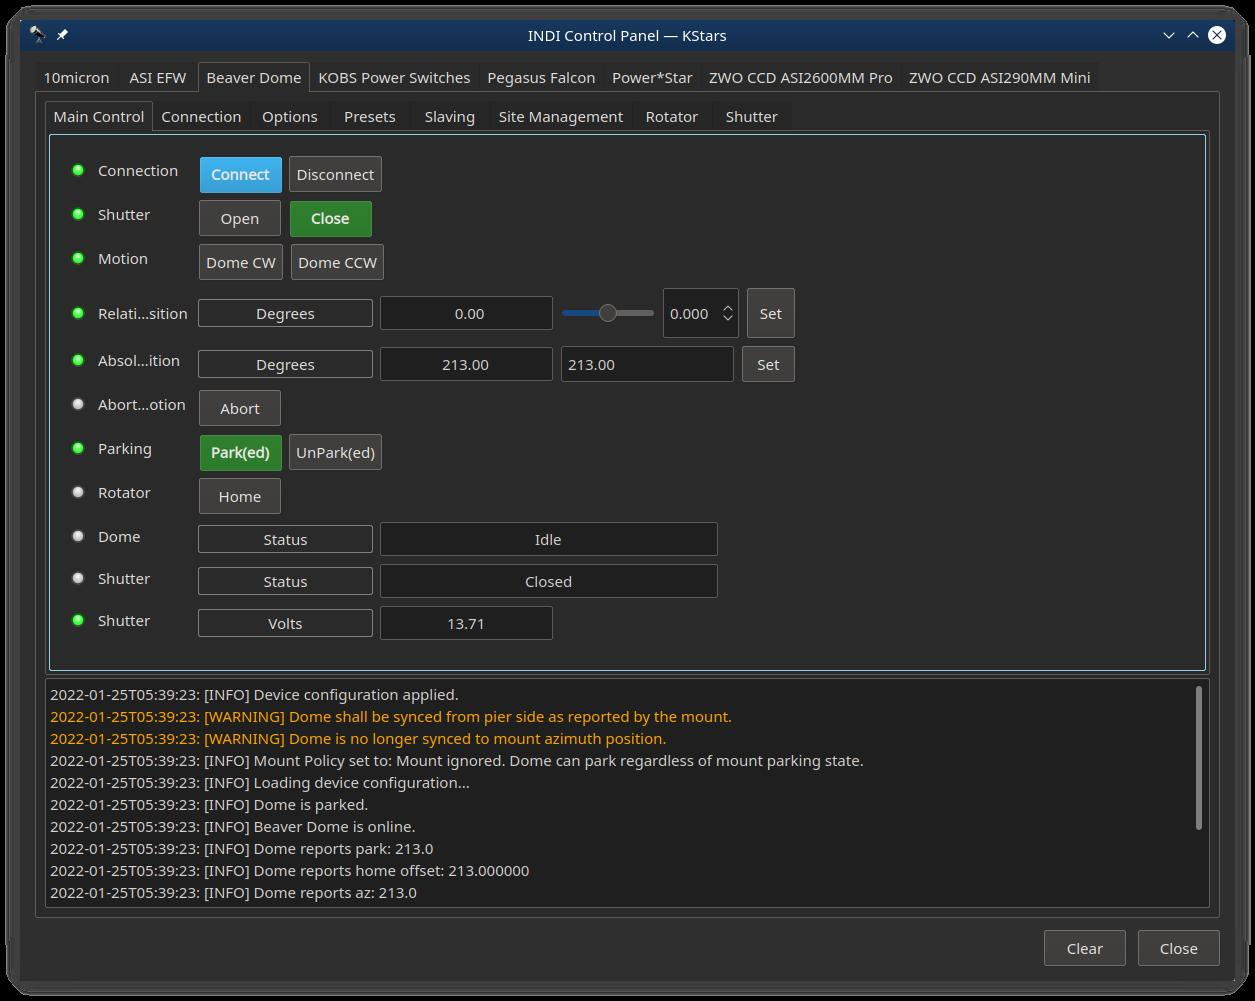
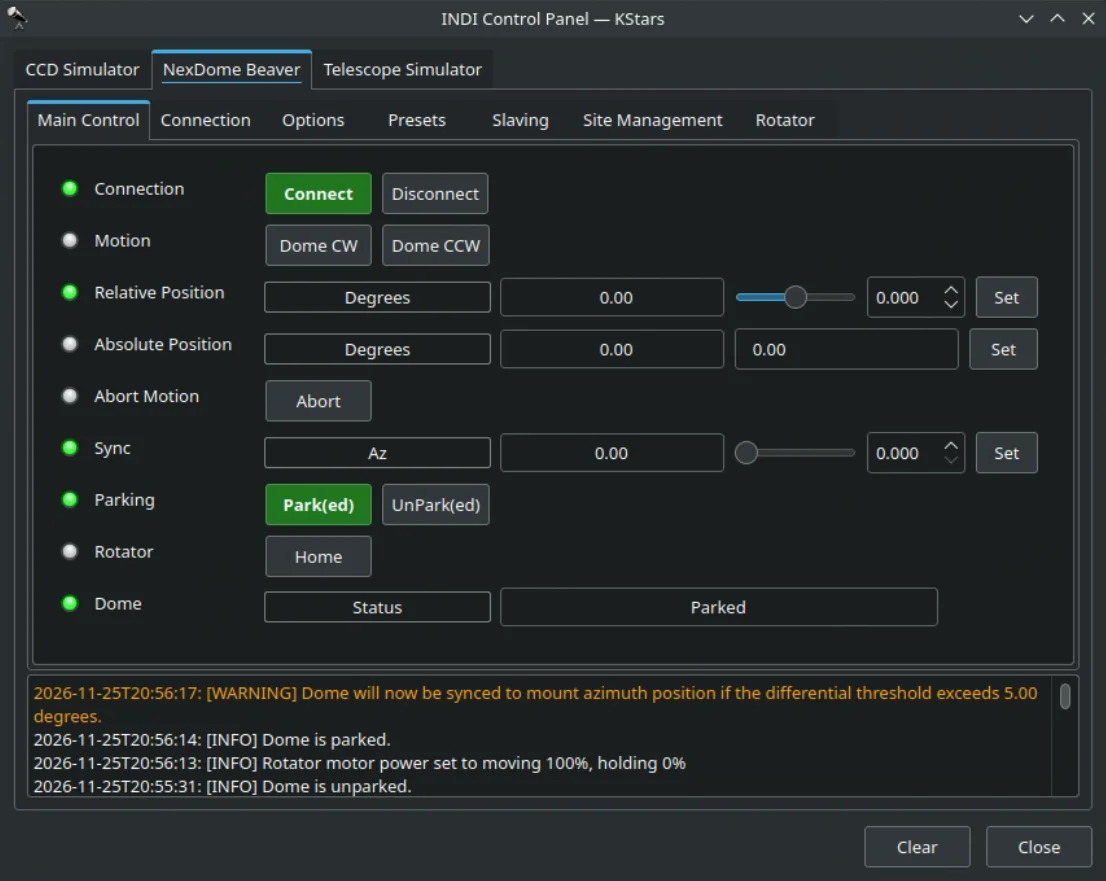
NexDome Beaver: Main tab screenshot with Sync, how to use Sync

diff --git a/src/content/docs/domes/nexdome/nexdome-beaver/nexdome-beaver.md b/src/content/docs/domes/nexdome/nexdome-beaver/nexdome-beaver.md
@@ -105,7 +105,7 @@ Absolute Position will move the dome AZ relative to what you set the Home Offset
 
 Dome and Shutter Status fields will display any errors, idle, moving, etc.
 
-Sync sets the current dome azimuth without moving the dome, for example after the dome was pushed by hand or slipped. It is refused while the rotator is moving.
+Sync tells the controller the dome's actual azimuth without moving the dome, for example after the dome was pushed by hand or slipped. Enter the azimuth in the Sync field and click Set; Absolute Position then shows the new value. Sync is refused while the rotator is moving. Other INDI clients, such as a script reading an external encoder, can set the same `DOME_SYNC` property to correct the position.
 
 The Shutter Volts field displays the current voltage of the shutter battery. In combination with the Safe Voltage on the Shutter tab, this can trigger the rotator controller to go into safety mode and call for the shutter to close.
 
